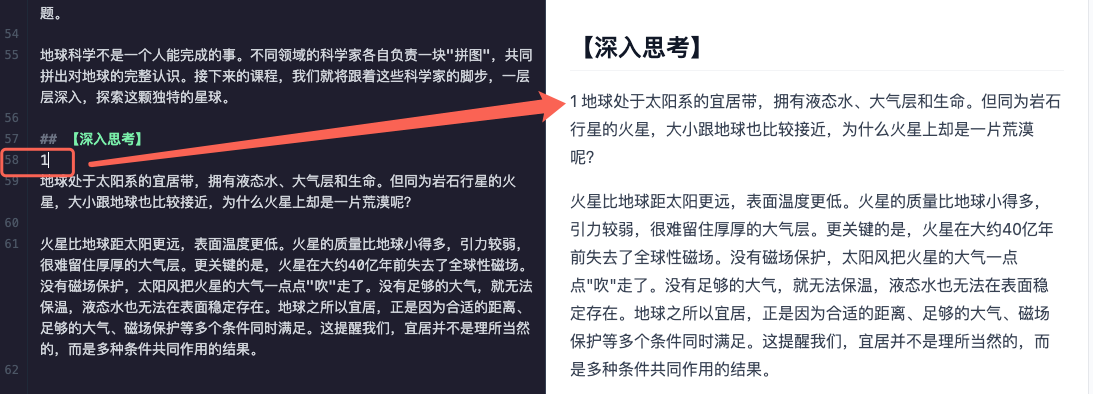
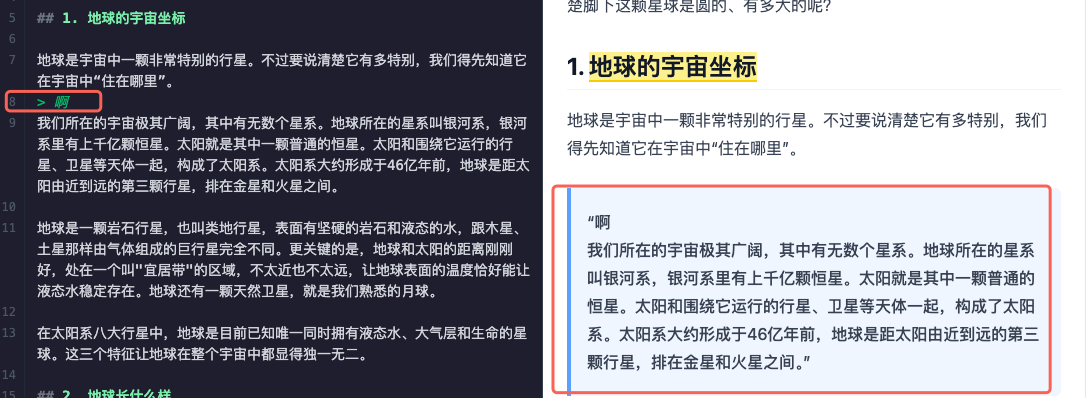
[AI Session] 2026-06-23T03:50:54.344Z
User Prompt:
1. 测试了一下，在md中添加引用、无序列表、有序列表、任务列表后，可能会让上下相邻行的内容也带上相关格式，这不对。举个例子：我在第8行增加了引用内容，并输入了“啊”之后，第9行的内容也变成了引用内容。
2. 在md内容顶部击图片图标后，应该可以选择从本地上传图片。

Changes:
AI code modifications based on user request

diff --git a/app/components/markdown-toolbar.tsx b/app/components/markdown-toolbar.tsx
@@ -1,6 +1,6 @@
 'use client';
 
-import { RefObject, useCallback } from 'react';
+import { RefObject, useCallback, useRef } from 'react';
 import {
   Undo2, Redo2, Bold, Italic, Strikethrough, Heading1, Heading2, Heading3,
   Code, Quote, List, ListOrdered, ListChecks, Link, Image, Table,
@@ -35,6 +35,57 @@ export default function MarkdownToolbar({
   undo,
   redo,
 }: MarkdownToolbarProps) {
+  const fileInputRef = useRef<HTMLInputElement>(null);
+
+  // 图片上传处理
+  const handleImageUpload = useCallback(async (file: File) => {
+    const textarea = textareaRef.current;
+    if (!textarea) return;
+
+    const scrollTop = textarea.parentElement?.parentElement?.scrollTop ?? 0;
+
+    try {
+      const formData = new FormData();
+      formData.append('file', file);
+
+      const response = await fetch('/api/upload', {
+        method: 'POST',
+        body: formData,
+      });
+
+      if (!response.ok) {
+        const error = await response.json();
+        throw new Error(error.error || '上传失败');
+      }
+
+      const { url, fileName } = await response.json();
+
+      // 上传成功后插入图片链接
+      const { start, end } = {
+        start: textarea.selectionStart,
+        end: textarea.selectionEnd,
+      };
+      pushUndo();
+      const before = markdown.slice(0, start);
+      const needNewline = before.length > 0 && !before.endsWith('\n');
+      const imageText = `![${fileName}](${url})`;
+      const insertText = (needNewline ? '\n' : '') + imageText;
+      const newText = before + insertText + markdown.slice(end);
+      setMarkdown(newText);
+
+      setTimeout(() => {
+        textarea.focus();
+        const cursorPos = start + insertText.length;
+        textarea.selectionStart = cursorPos;
+        textarea.selectionEnd = cursorPos;
+        const scrollContainer = textarea.parentElement?.parentElement;
+        if (scrollContainer) scrollContainer.scrollTop = scrollTop;
+      }, 0);
+    } catch (error) {
+      alert(`图片上传失败: ${error instanceof Error ? error.message : '未知错误'}`);
+    }
+  }, [textareaRef, markdown, setMarkdown, pushUndo]);
+
   // 获取 textarea 选区信息
   const getSelection = useCallback(() => {
     const textarea = textareaRef.current;
@@ -75,6 +126,7 @@ export default function MarkdownToolbar({
   }, [textareaRef, markdown, setMarkdown, getSelection, pushUndo]);
 
   // 通用：行首插入前缀（保持滚动位置不变）
+  // 只影响光标所在行或选中的行，不影响上下相邻行
   const insertLinePrefix = useCallback((prefix: string) => {
     const textarea = textareaRef.current;
     if (!textarea) return;
@@ -82,14 +134,24 @@ export default function MarkdownToolbar({
 
     const { start, end } = getSelection();
     const scrollTop = textarea.parentElement?.parentElement?.scrollTop ?? 0;
-    // 找到当前行的开头
+
+    // 找到光标所在行的开头（当前行从上一个 \n 之后开始）
     const lineStart = markdown.lastIndexOf('\n', start - 1) + 1;
-    const lineEnd = markdown.indexOf('\n', end);
+
+    // 找到选区结束位置所在行的末尾
+    // 关键修复：如果 end 正好在一行的开头（即 end > 0 且 markdown[end-1] === '\n'），
+    // 则不应包含该行（因为光标在行首意味着上一行的末尾，不是下一行的开始）
+    let searchEnd = end;
+    if (end > start && end > 0 && markdown[end - 1] === '\n') {
+      searchEnd = end - 1;
+    }
+    const lineEnd = markdown.indexOf('\n', searchEnd);
     const actualLineEnd = lineEnd === -1 ? markdown.length : lineEnd;
 
-    // 选中的行范围
+    // 只处理从 lineStart 到 actualLineEnd 的内容
     const selectedLines = markdown.slice(lineStart, actualLineEnd);
-    const newLines = selectedLines.split('\n').map(line => prefix + line).join('\n');
+    const lines = selectedLines.split('\n');
+    const newLines = lines.map(line => prefix + line).join('\n');
 
     const newText = markdown.slice(0, lineStart) + newLines + markdown.slice(actualLineEnd);
     setMarkdown(newText);
@@ -97,7 +159,7 @@ export default function MarkdownToolbar({
     setTimeout(() => {
       textarea.focus();
       textarea.selectionStart = start + prefix.length;
-      textarea.selectionEnd = end + prefix.length * selectedLines.split('\n').length;
+      textarea.selectionEnd = end + prefix.length * lines.length;
       // 恢复滚动位置
       const scrollContainer = textarea.parentElement?.parentElement;
       if (scrollContainer) scrollContainer.scrollTop = scrollTop;
@@ -178,7 +240,7 @@ export default function MarkdownToolbar({
           insertAtCursor('[链接文字](url)');
         }
       }},
-      { icon: <Image className="w-4 h-4" />, title: '插入图片', action: () => insertAtCursor('![图片描述](图片URL)') },
+      { icon: <Image className="w-4 h-4" />, title: '插入图片（从本地上传）', action: () => fileInputRef.current?.click() },
       { icon: <Table className="w-4 h-4" />, title: '插入表格', action: () => insertAtCursor('\n| 列1 | 列2 | 列3 |\n| --- | --- | --- |\n| 内容 | 内容 | 内容 |\n') },
       { icon: <Minus className="w-4 h-4" />, title: '水平线', action: () => insertAtCursor('\n---\n') },
       { icon: <MessageCircle className="w-4 h-4" />, title: '插入留言', action: () => insertAtCursor('\n> [!NOTE]\n> 在此留言\n') },
@@ -186,6 +248,20 @@ export default function MarkdownToolbar({
   ];
 
   return (
+    <>
+    <input
+      ref={fileInputRef}
+      type="file"
+      accept="image/png,image/jpeg,image/gif,image/webp,image/svg+xml"
+      className="hidden"
+      onChange={(e) => {
+        const file = e.target.files?.[0];
+        if (file) {
+          handleImageUpload(file);
+          e.target.value = ''; // 重置以允许重复选择相同文件
+        }
+      }}
+    />
     <div className="flex items-center gap-0.5 px-2 py-1 bg-[#2a2a3a] border-b border-gray-700 overflow-x-auto flex-nowrap">
       {toolGroups.map((group, gi) => (
         <div key={gi} className="flex items-center">
@@ -215,5 +291,6 @@ export default function MarkdownToolbar({
         </div>
       ))}
     </div>
+    </>
   );
 }

diff --git a/app/api/upload/route.ts b/app/api/upload/route.ts
@@ -1,0 +1,48 @@
+import { NextResponse } from 'next/server';
+import { writeFile, mkdir } from 'fs/promises';
+import { join } from 'path';
+import { randomUUID } from 'crypto';
+
+export async function POST(request: Request) {
+  try {
+    const formData = await request.formData();
+    const file = formData.get('file') as File;
+
+    if (!file) {
+      return NextResponse.json({ error: '未选择文件' }, { status: 400 });
+    }
+
+    // 验证文件类型
+    const allowedTypes = ['image/png', 'image/jpeg', 'image/gif', 'image/webp', 'image/svg+xml'];
+    if (!allowedTypes.includes(file.type)) {
+      return NextResponse.json({ error: '不支持的文件类型，请上传 PNG、JPEG、GIF、WebP 或 SVG 格式的图片' }, { status: 400 });
+    }
+
+    // 限制文件大小 (10MB)
+    const maxSize = 10 * 1024 * 1024;
+    if (file.size > maxSize) {
+      return NextResponse.json({ error: '文件大小不能超过 10MB' }, { status: 400 });
+    }
+
+    // 创建上传目录
+    const uploadDir = join(process.cwd(), 'public', 'uploads');
+    await mkdir(uploadDir, { recursive: true });
+
+    // 生成唯一文件名
+    const ext = file.name.split('.').pop() || 'png';
+    const fileName = `${randomUUID()}.${ext}`;
+    const filePath = join(uploadDir, fileName);
+
+    // 写入文件
+    const bytes = await file.arrayBuffer();
+    await writeFile(filePath, Buffer.from(bytes));
+
+    // 返回可访问的 URL
+    const url = `/uploads/${fileName}`;
+
+    return NextResponse.json({ url, fileName: file.name });
+  } catch (error) {
+    console.error('Upload error:', error);
+    return NextResponse.json({ error: '上传失败' }, { status: 500 });
+  }
+}